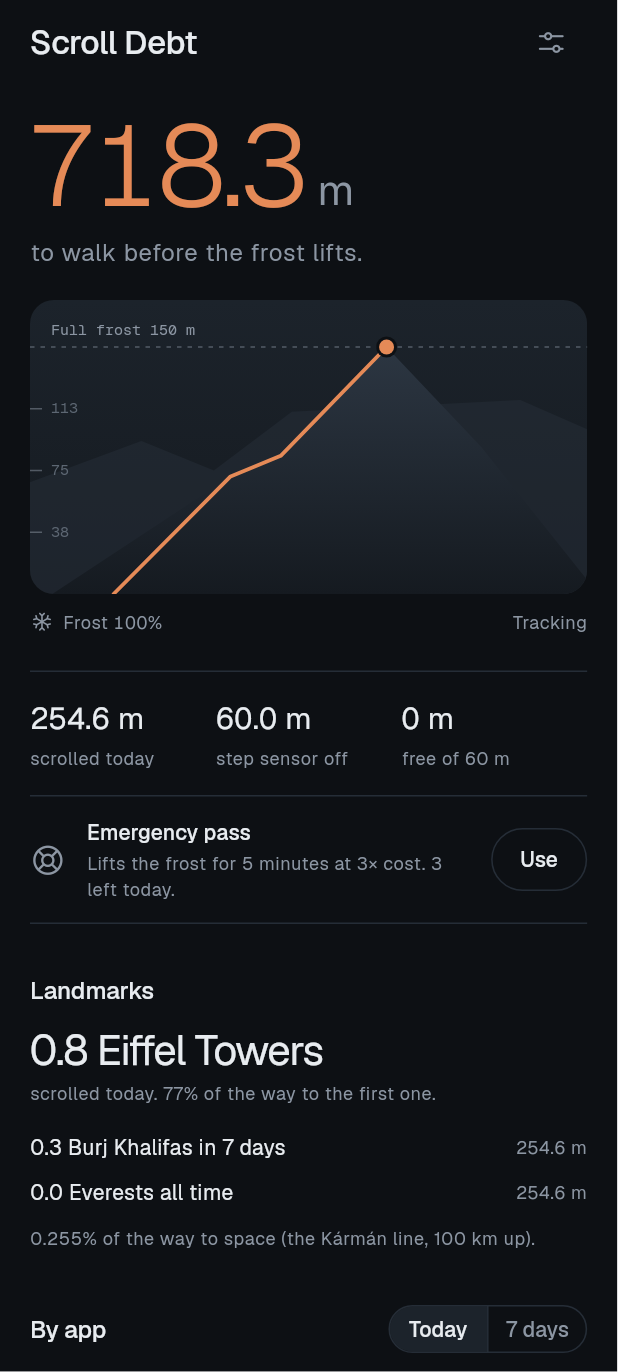
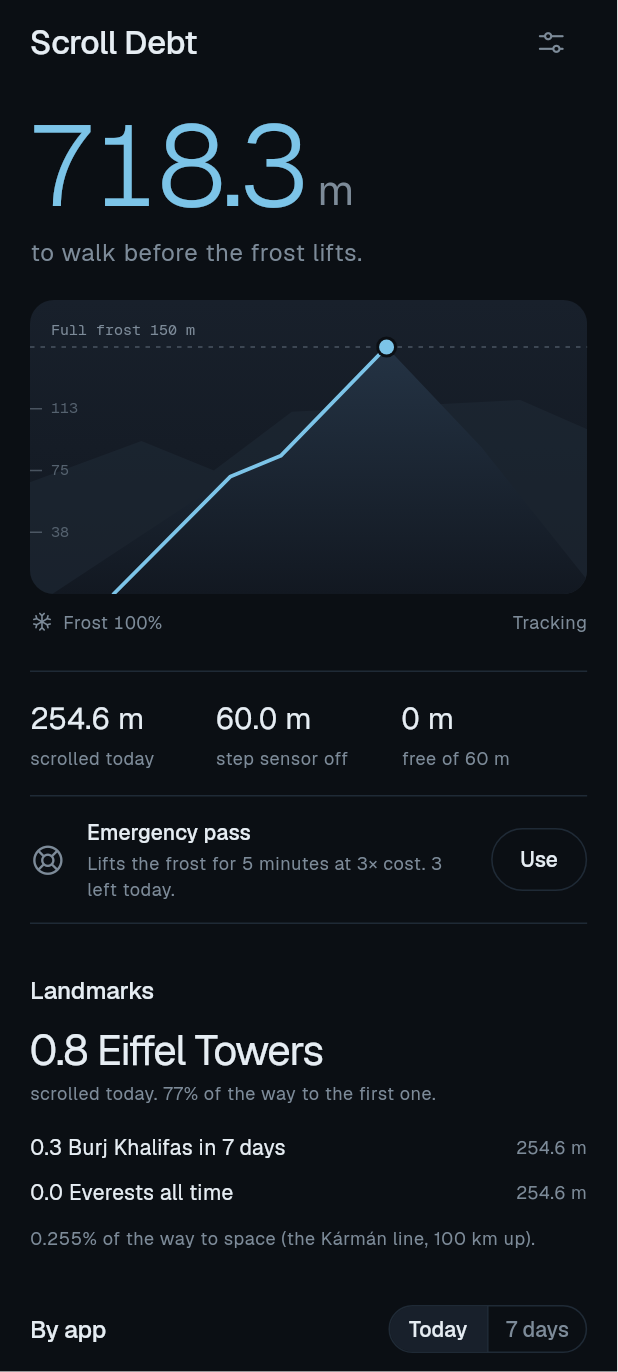
Switch to Glacier palette: frost-cyan accent on blue-black
The accent now matches the frost overlay, tying dashboard, widget and
launcher icon to the app's core metaphor.

Claude-Session: https://claude.ai/code/session_01YCY2t1jaTZchcHkSfcDLD6

diff --git a/lib/ui/theme.dart b/lib/ui/theme.dart
@@ -1,17 +1,18 @@
 import 'package:flutter/material.dart';
 
-/// One cool neutral scale and a single accent (alpenglow orange) used for
-/// debt and primary actions only. No secondary accent colours anywhere.
+/// "Glacier": blue-black neutrals and a single frost-cyan accent, the same
+/// colour language as the frost overlay. The accent marks debt and primary
+/// actions only; when debt-free the hero number falls back to plain text.
 abstract final class Palette {
-  static const ink = Color(0xFF0D1014);
-  static const raised = Color(0xFF151A20);
-  static const raised2 = Color(0xFF1C232B);
-  static const hairline = Color(0xFF252D37);
-  static const text = Color(0xFFE8ECF0);
-  static const muted = Color(0xFF8C96A3);
-  static const faint = Color(0xFF5D6773);
-  static const accent = Color(0xFFE58A57);
-  static const onAccent = Color(0xFF1A0F08);
+  static const ink = Color(0xFF0B0F14);
+  static const raised = Color(0xFF121821);
+  static const raised2 = Color(0xFF18202B);
+  static const hairline = Color(0xFF1F2A36);
+  static const text = Color(0xFFE6EDF3);
+  static const muted = Color(0xFF7D8B99);
+  static const faint = Color(0xFF55626F);
+  static const accent = Color(0xFF7CC4E8);
+  static const onAccent = Color(0xFF06131C);
 }
 
 /// One radius scale: surfaces 16, small elements 8, buttons are pills.
@@ -111,7 +112,7 @@ ThemeData buildTheme() {
       activeTrackColor: Palette.text,
       inactiveTrackColor: Palette.hairline,
       thumbColor: Palette.text,
-      overlayColor: const Color(0x14E8ECF0),
+      overlayColor: const Color(0x14E6EDF3),
       tickMarkShape: SliderTickMarkShape.noTickMark,
       trackHeight: 3,
       showValueIndicator: ShowValueIndicator.never,

diff --git a/android/app/src/main/kotlin/com/lan/scrolldebt/ScrollDebtShim.kt b/android/app/src/main/kotlin/com/lan/scrolldebt/ScrollDebtShim.kt
@@ -402,7 +402,7 @@ class FrostOverlay(private val service: AccessibilityService) {
             setPadding((16 * density).toInt(), (8 * density).toInt(), (16 * density).toInt(), (8 * density).toInt())
             background = GradientDrawable().apply {
                 cornerRadius = 20 * density
-                setColor(Color.argb(150, 13, 16, 20))
+                setColor(Color.argb(150, 11, 15, 20))
             }
         }
         val fl = FrameLayout(service)

diff --git a/lib/ui/altitude_gauge.dart b/lib/ui/altitude_gauge.dart
@@ -72,7 +72,7 @@ class _GaugePainter extends CustomPainter {
     canvas.drawPath(
       ridge,
       Paint()
-        ..shader = ui.Gradient.linear(peak, Offset(peak.dx, base), [const Color(0xFF2C3642), Palette.raised]),
+        ..shader = ui.Gradient.linear(peak, Offset(peak.dx, base), [const Color(0xFF243344), Palette.raised]),
     );
 
     // Frost line at the summit.

diff --git a/DECISIONS.md b/DECISIONS.md
@@ -90,7 +90,7 @@ The UI was reworked against the anti-slop rules from
 [tasteskill.dev](https://www.tasteskill.dev/) (source: github.com/Leonxlnx/taste-skill;
 the site itself is blocked by this environment's network policy). The skill targets web
 landing pages, so only its general rules were applied:
-* **One accent** (alpenglow orange `#E58A57`, saturation under 80%) used only for debt
+* **One accent** (glacier cyan `#7CC4E8`, matching the frost overlay) used only for debt
   and primary actions, on a single cool neutral scale. The previous four accents
   (blue, orange, green, red) are gone.
 * **Type:** Geist with tabular figures, and Geist Mono for the gauge scale only. Both
